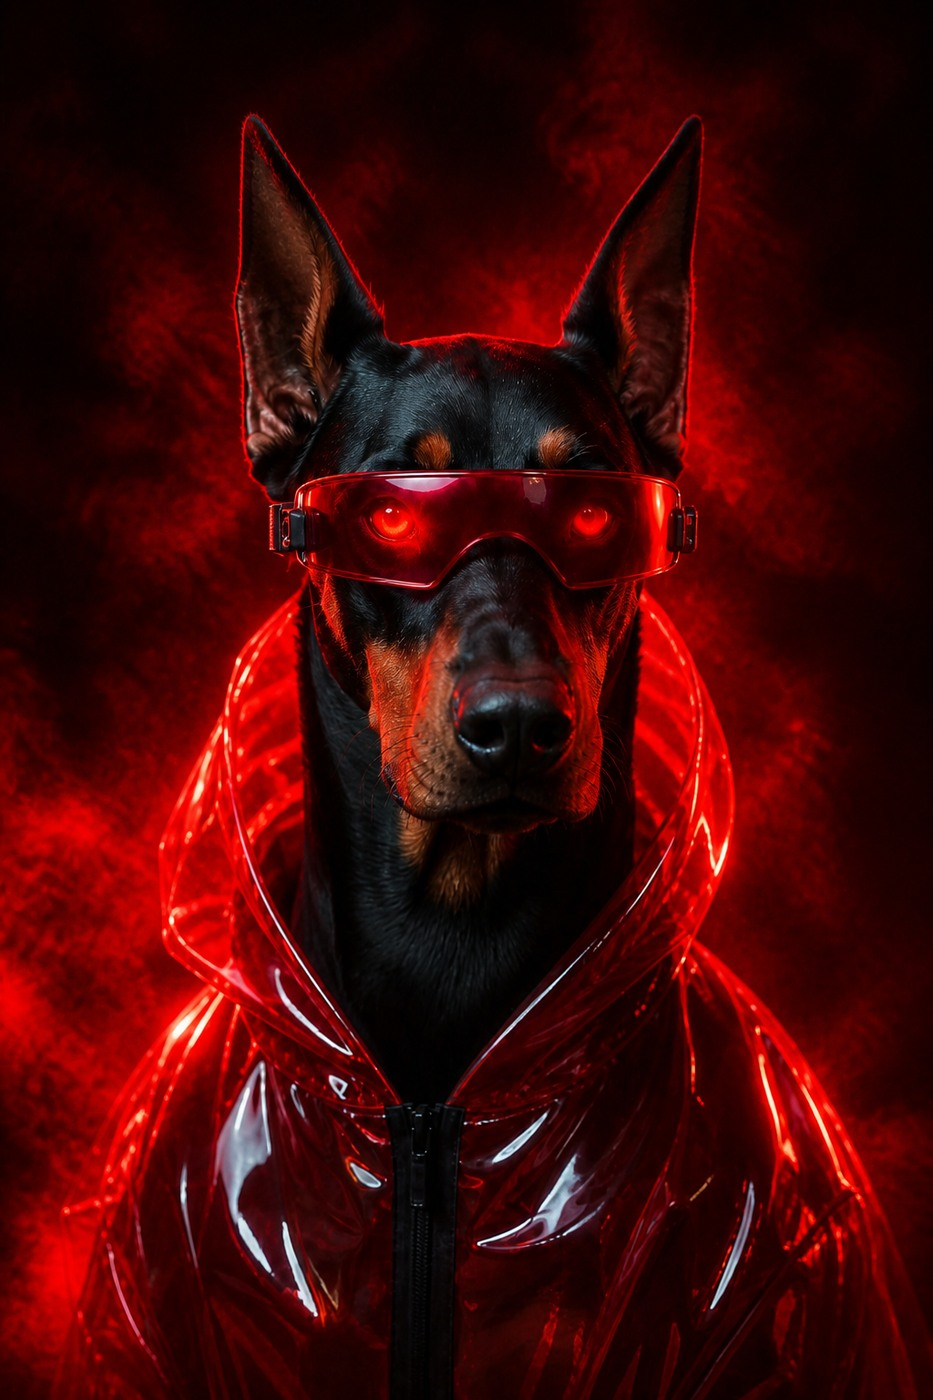
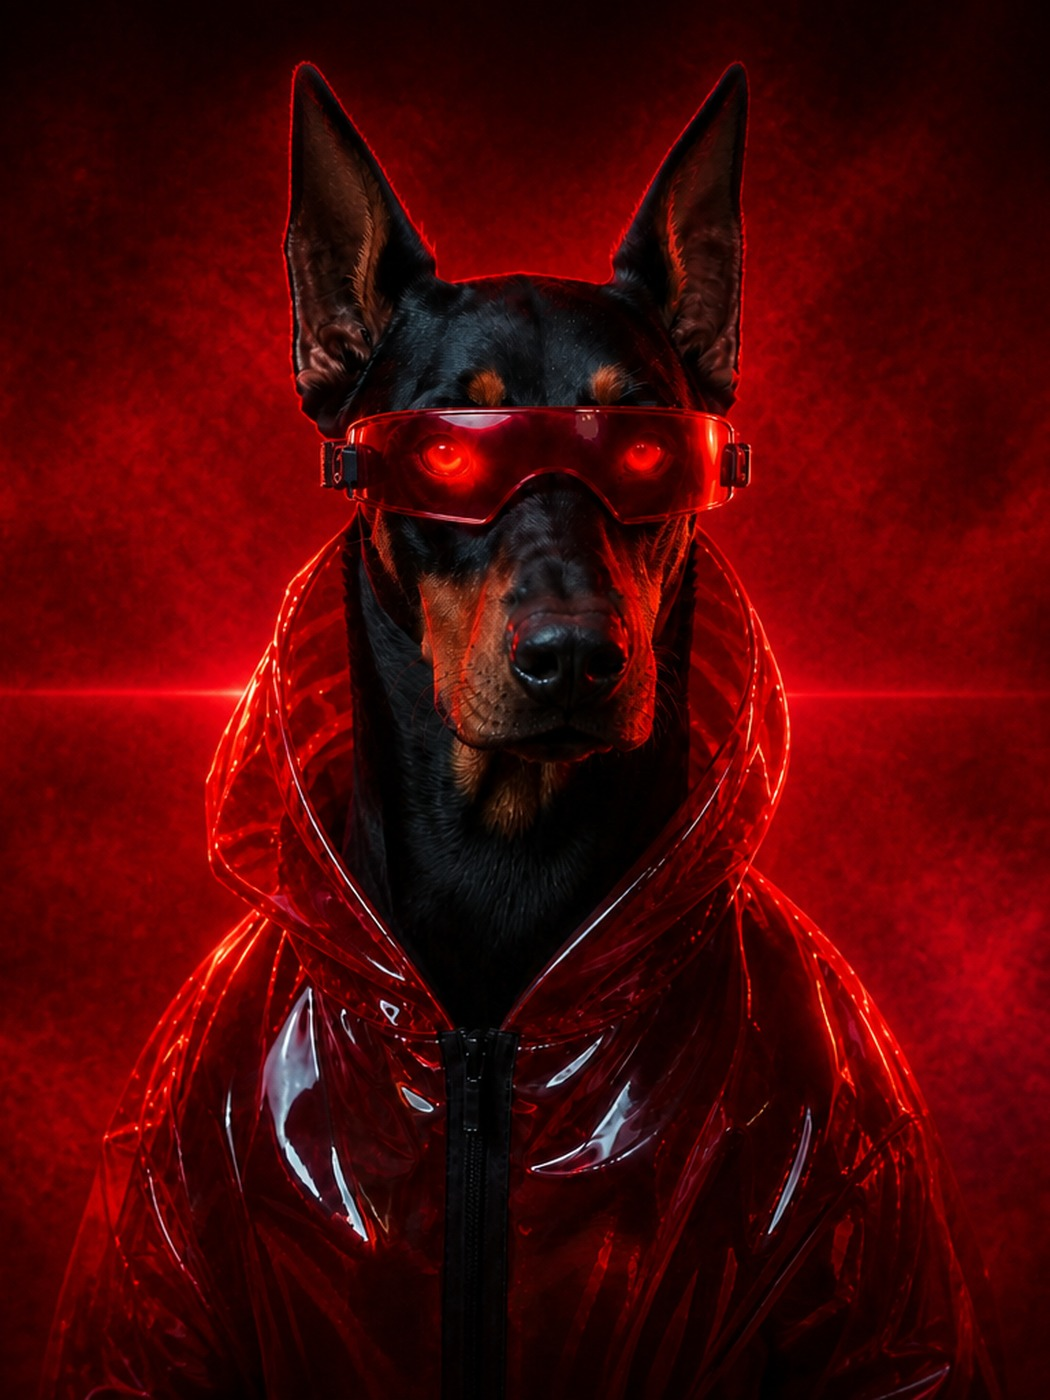
Match Code Red mock: full-bleed field, GN-0606, no dark card
Align the landing hero to the approved mock — seamless crimson
full-bleed atmosphere, stacked title, specimen GN-0606, and
remove the dark portrait plate. Apply the same layout to Nova
in magenta/pink.

diff --git a/styles.css b/styles.css
@@ -335,114 +335,124 @@ figure { margin: 0; }
   font-size: 9.5px;
 }
 
-/* Aathira's Code Red — landing hero, crimson atmospheric field */
+/* Aathira's Code Red — landing hero matching approved mock */
 .hero-code-red {
   --ac: #ff2222;
   --ac2: #ff6a00;
   --ac3: #ff9d9d;
   --ac-dim: rgba(255, 34, 34, 0.18);
-  --ac-glow: rgba(255, 48, 32, 0.42);
+  --ac-glow: rgba(255, 48, 32, 0.45);
   background:
-    radial-gradient(58% 50% at 50% 40%, rgba(255, 55, 40, 0.42), transparent 72%),
-    radial-gradient(95% 80% at 50% 100%, rgba(70, 0, 0, 0.75), transparent 58%),
-    linear-gradient(180deg, #1c0202 0%, #6e0a0a 36%, #b41212 70%, #3a0505 100%);
+    radial-gradient(55% 48% at 50% 42%, rgba(180, 20, 20, 0.35), transparent 70%),
+    linear-gradient(180deg, rgba(5,1,1,0.35) 0%, rgba(5,1,1,0.15) 40%, rgba(5,1,1,0.55) 100%),
+    url("assets/code-red-bleed.jpg") center/cover no-repeat,
+    #1a0202;
 }
 .hero-code-red::before {
-  background:
-    radial-gradient(46% 38% at 50% 36%, rgba(255, 70, 40, 0.28), transparent 72%);
+  background: radial-gradient(42% 34% at 50% 38%, rgba(255, 60, 40, 0.22), transparent 70%);
   opacity: 1;
 }
-.hero-code-red .hero-ghost span {
-  -webkit-text-stroke-color: rgba(255, 210, 190, 0.16);
+.hero-code-red .hero-ghost { display: none; }
+.hero-code-red .hero-stage {
+  background: transparent;
+  inset: 0;
+  left: 0;
+  top: 0;
+  right: 0;
+  bottom: 0;
+  width: 100%;
+  height: 100%;
+  transform: none;
+  aspect-ratio: auto;
+  max-width: none;
 }
-.hero-code-red .hero-ghost span:first-child {
-  color: rgba(255, 220, 200, 0.07);
-}
-.hero-code-red .hero-title .painted {
-  text-shadow: 0 0 28px rgba(255, 40, 30, 0.55), 0 2px 0 rgba(0, 0, 0, 0.35);
-}
-.hero-code-red .hero-spec,
-.hero-code-red .hero-tag,
-.hero-code-red .hero-scroll {
-  color: rgba(255, 170, 150, 0.92);
-}
-.hero-code-red .hero-spec p:first-child { color: #fff; }
-.hero-code-red .hero-footer {
-  border-top-color: rgba(255, 180, 160, 0.2);
-  color: rgba(255, 170, 150, 0.85);
-  background: linear-gradient(180deg, transparent, rgba(40, 0, 0, 0.4));
-}
-.hero-code-red .hero-stage { background: transparent; }
 .hero-code-red .hero-render {
   -webkit-mask-image: none;
           mask-image: none;
 }
-.hero-code-red .hero-render > .render-vignette {
-  background:
-    radial-gradient(120% 105% at 50% 42%, transparent 58%, rgba(90, 0, 0, 0.45) 100%),
-    linear-gradient(180deg, rgba(60, 0, 0, 0.15) 0%, transparent 24%, transparent 62%, rgba(50, 0, 0, 0.55) 100%);
+.hero-code-red .hero-render > .render-vignette,
+.hero-code-red .scanline { display: none; }
+.hero-code-red .tt-frame {
+  object-fit: cover;
+  object-position: center center;
+  mix-blend-mode: lighten;
 }
-.hero-code-red .hero-sub {
-  color: rgba(255, 190, 175, 0.92);
+.hero-code-red .hero-title .painted,
+.hero-code-red .hero-title-stack .ht-name {
+  text-shadow: 0 0 32px rgba(255, 40, 30, 0.65), 0 2px 0 rgba(0, 0, 0, 0.4);
 }
-.hero-code-red .eyebrow {
-  color: var(--ac);
+.hero-code-red .hero-spec,
+.hero-code-red .hero-tag,
+.hero-code-red .hero-scroll {
+  color: rgba(255, 120, 100, 0.95);
 }
-.hero-nova .hero-sub {
-  color: rgba(255, 190, 220, 0.92);
-}
-.hero-nova .eyebrow {
-  color: var(--ac);
+.hero-code-red .hero-spec p:first-child { color: rgba(255, 180, 160, 0.95); }
+.hero-code-red .hero-sub { color: rgba(247, 247, 243, 0.9); }
+.hero-code-red .eyebrow { color: var(--ac); }
+.hero-code-red .hero-footer { display: none; }
+.hero-code-red .render-slot,
+.hero-nova .render-slot { overflow: visible; }
+.hero-code-red .hero-glow,
+.hero-nova .hero-glow {
+  inset: -8%;
+  opacity: 0.55;
 }
 
-/* Aathira's Nova — second hero, magenta/pink atmospheric field */
+/* Aathira's Nova — same mock layout in magenta/pink */
 .hero-nova {
   --ac: #ff2ea6;
   --ac2: #8b5cf6;
   --ac3: #46e6e6;
   --ac-dim: rgba(255, 46, 166, 0.18);
-  --ac-glow: rgba(255, 70, 180, 0.4);
+  --ac-glow: rgba(255, 70, 180, 0.42);
   background:
-    radial-gradient(58% 50% at 50% 40%, rgba(255, 70, 180, 0.38), transparent 72%),
-    radial-gradient(95% 80% at 50% 100%, rgba(60, 0, 50, 0.72), transparent 58%),
-    linear-gradient(180deg, #160314 0%, #5a0a45 36%, #a01878 70%, #2a0822 100%);
+    radial-gradient(55% 48% at 50% 42%, rgba(160, 20, 100, 0.32), transparent 70%),
+    linear-gradient(180deg, rgba(8,1,10,0.35) 0%, rgba(8,1,10,0.15) 40%, rgba(8,1,10,0.55) 100%),
+    url("assets/nova-bleed.jpg") center/cover no-repeat,
+    #160314;
 }
 .hero-nova::before {
-  background:
-    radial-gradient(46% 38% at 50% 36%, rgba(255, 90, 200, 0.26), transparent 72%);
+  background: radial-gradient(42% 34% at 50% 38%, rgba(255, 80, 190, 0.22), transparent 70%);
   opacity: 1;
 }
-.hero-nova .hero-ghost span {
-  -webkit-text-stroke-color: rgba(255, 200, 230, 0.16);
+.hero-nova .hero-ghost { display: none; }
+.hero-nova .hero-stage {
+  background: transparent;
+  inset: 0;
+  left: 0;
+  top: 0;
+  right: 0;
+  bottom: 0;
+  width: 100%;
+  height: 100%;
+  transform: none;
+  aspect-ratio: auto;
+  max-width: none;
 }
-.hero-nova .hero-ghost span:first-child {
-  color: rgba(255, 210, 235, 0.07);
-}
-.hero-nova .hero-title .painted {
-  text-shadow: 0 0 28px rgba(255, 46, 166, 0.55), 0 2px 0 rgba(0, 0, 0, 0.35);
-}
-.hero-nova .hero-spec,
-.hero-nova .hero-tag,
-.hero-nova .hero-scroll {
-  color: rgba(255, 170, 210, 0.92);
-}
-.hero-nova .hero-spec p:first-child { color: #fff; }
-.hero-nova .hero-footer {
-  border-top-color: rgba(255, 180, 220, 0.2);
-  color: rgba(255, 170, 210, 0.85);
-  background: linear-gradient(180deg, transparent, rgba(40, 0, 35, 0.4));
-}
-.hero-nova .hero-stage { background: transparent; }
 .hero-nova .hero-render {
   -webkit-mask-image: none;
           mask-image: none;
 }
-.hero-nova .hero-render > .render-vignette {
-  background:
-    radial-gradient(120% 105% at 50% 42%, transparent 58%, rgba(70, 0, 55, 0.45) 100%),
-    linear-gradient(180deg, rgba(50, 0, 40, 0.15) 0%, transparent 24%, transparent 62%, rgba(40, 0, 35, 0.55) 100%);
+.hero-nova .hero-render > .render-vignette,
+.hero-nova .scanline { display: none; }
+.hero-nova .tt-frame {
+  object-fit: cover;
+  object-position: center center;
+  mix-blend-mode: lighten;
 }
-.hero-nova .scanline { opacity: 0.35; }
+.hero-nova .hero-title .painted,
+.hero-nova .hero-title-stack .ht-name {
+  text-shadow: 0 0 32px rgba(255, 46, 166, 0.65), 0 2px 0 rgba(0, 0, 0, 0.4);
+}
+.hero-nova .hero-spec,
+.hero-nova .hero-tag,
+.hero-nova .hero-scroll {
+  color: rgba(255, 140, 200, 0.95);
+}
+.hero-nova .hero-spec p:first-child { color: rgba(255, 190, 220, 0.95); }
+.hero-nova .hero-sub { color: rgba(247, 247, 243, 0.9); }
+.hero-nova .eyebrow { color: var(--ac); }
+.hero-nova .hero-footer { display: none; }
 
 /* ============================================================
    SPECIES SHOWCASE
@@ -1016,8 +1026,15 @@ figure { margin: 0; }
   .hero-ghost span:first-child { color: rgba(247,247,243,0.04); }
   .hero-stage {
     position: relative; left: auto; top: auto; transform: none;
-    width: min(78vw, 56svh); height: auto; aspect-ratio: 3 / 4;
+    width: min(92vw, 70svh); height: auto; aspect-ratio: 3 / 4;
     margin: 0 auto; flex: none;
+  }
+  .hero-code-red .hero-stage,
+  .hero-nova .hero-stage {
+    width: min(100vw, 78svh);
+    height: auto;
+    aspect-ratio: 3 / 4;
+    top: auto;
   }
   .hero-copy { margin-top: clamp(-96px, -11svh, -44px); }
   .hero-title { font-size: clamp(36px, 11vw, 58px); letter-spacing: 0; }

diff --git a/index.html b/index.html
@@ -34,7 +34,7 @@
     <a href="#about" data-navlink>About</a>
   </nav>
   <div class="nav-right">
-    <span class="nav-meta mono" id="navMeta">SPECIMEN GN-0666 [●]</span>
+    <span class="nav-meta mono" id="navMeta">SPECIMEN GN-0606 [●]</span>
     <button class="nav-burger" id="navBurger" aria-label="Open menu" aria-expanded="false" aria-controls="navLinks">
       <span></span><span></span>
     </button>
@@ -73,11 +73,11 @@
   </div>
 
   <aside class="hero-spec mono" aria-label="Code Red specimen metadata">
-    <p>ID: #GN-0666</p>
+    <p>ID: #GN-0606</p>
     <p>NAME: AATHIRA&rsquo;S_CODE_RED</p>
     <p>BASE: THERMAL_CANID</p>
     <p>FASHION: RED_VINYL_GLOSS</p>
-    <p>CLASS: THERMAL-SENTINEL</p>
+    <p>CLASS: THERMAL_SENTINEL</p>
   </aside>
 
   <aside class="hero-tag mono" aria-hidden="true">

diff --git a/app.js b/app.js
@@ -77,7 +77,7 @@ const SPECIES = {
     img: "assets/code-red.jpg",
     alt: "Aathira's Code Red — a photorealistic thermal canid in glossy red environmental armour with a red LED visor",
     ac: "#ff2222", ac2: "#ff6a00", ac3: "#ff9d9d",
-    specimen: "GN-0666",
+    specimen: "GN-0606",
     base: "THERMAL CANID",
     inspiration: "DOBERMAN × THERMOGRAPH",
     surface: "MATTE_CARBON COAT",
